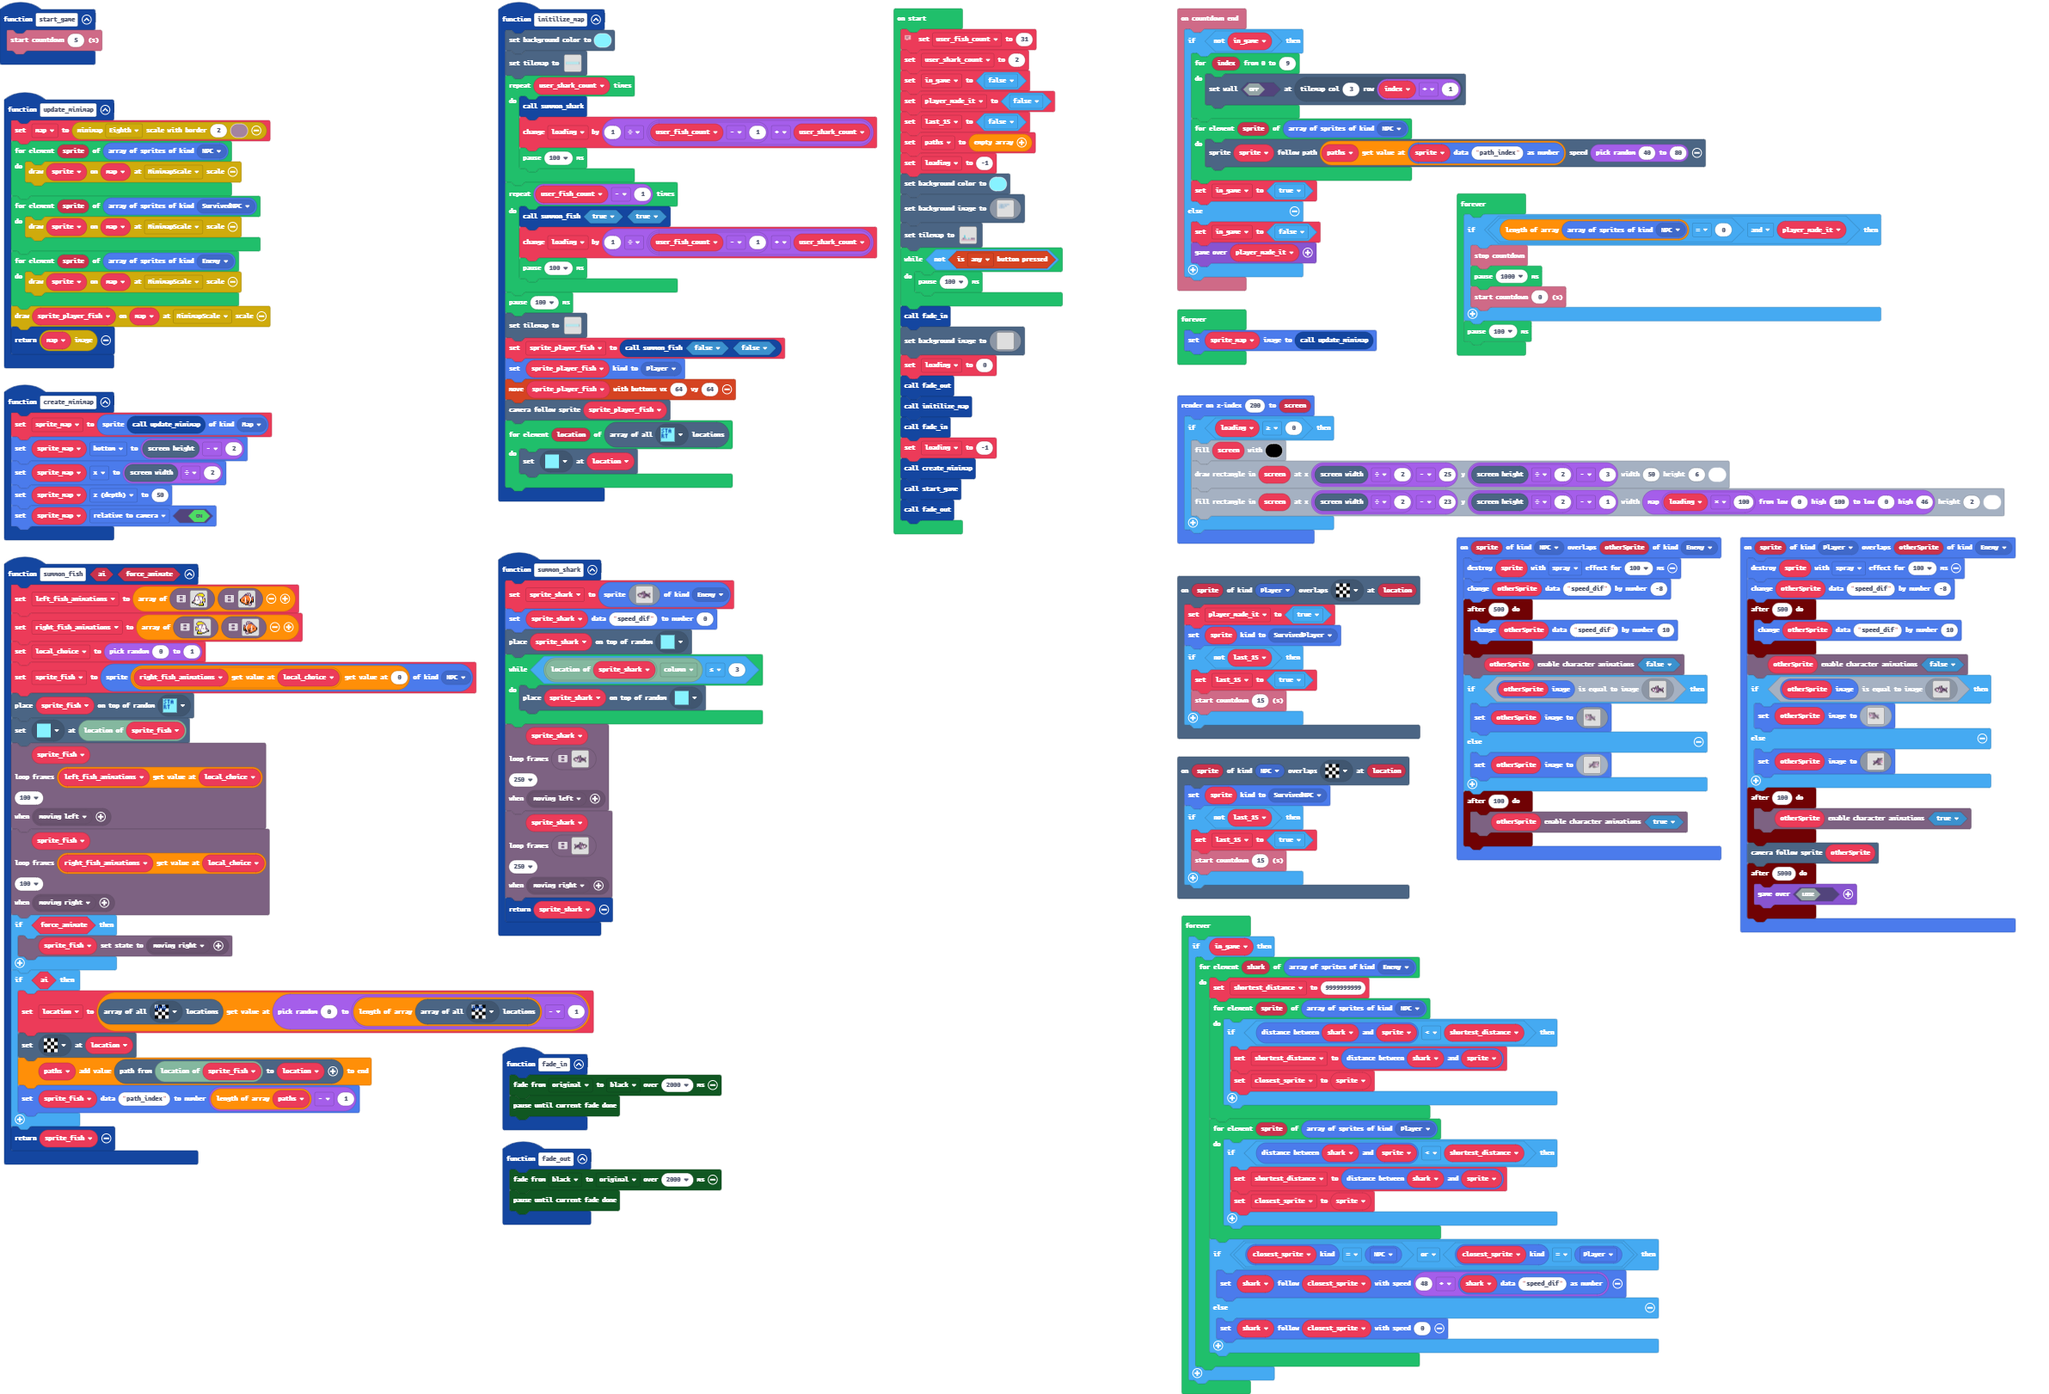
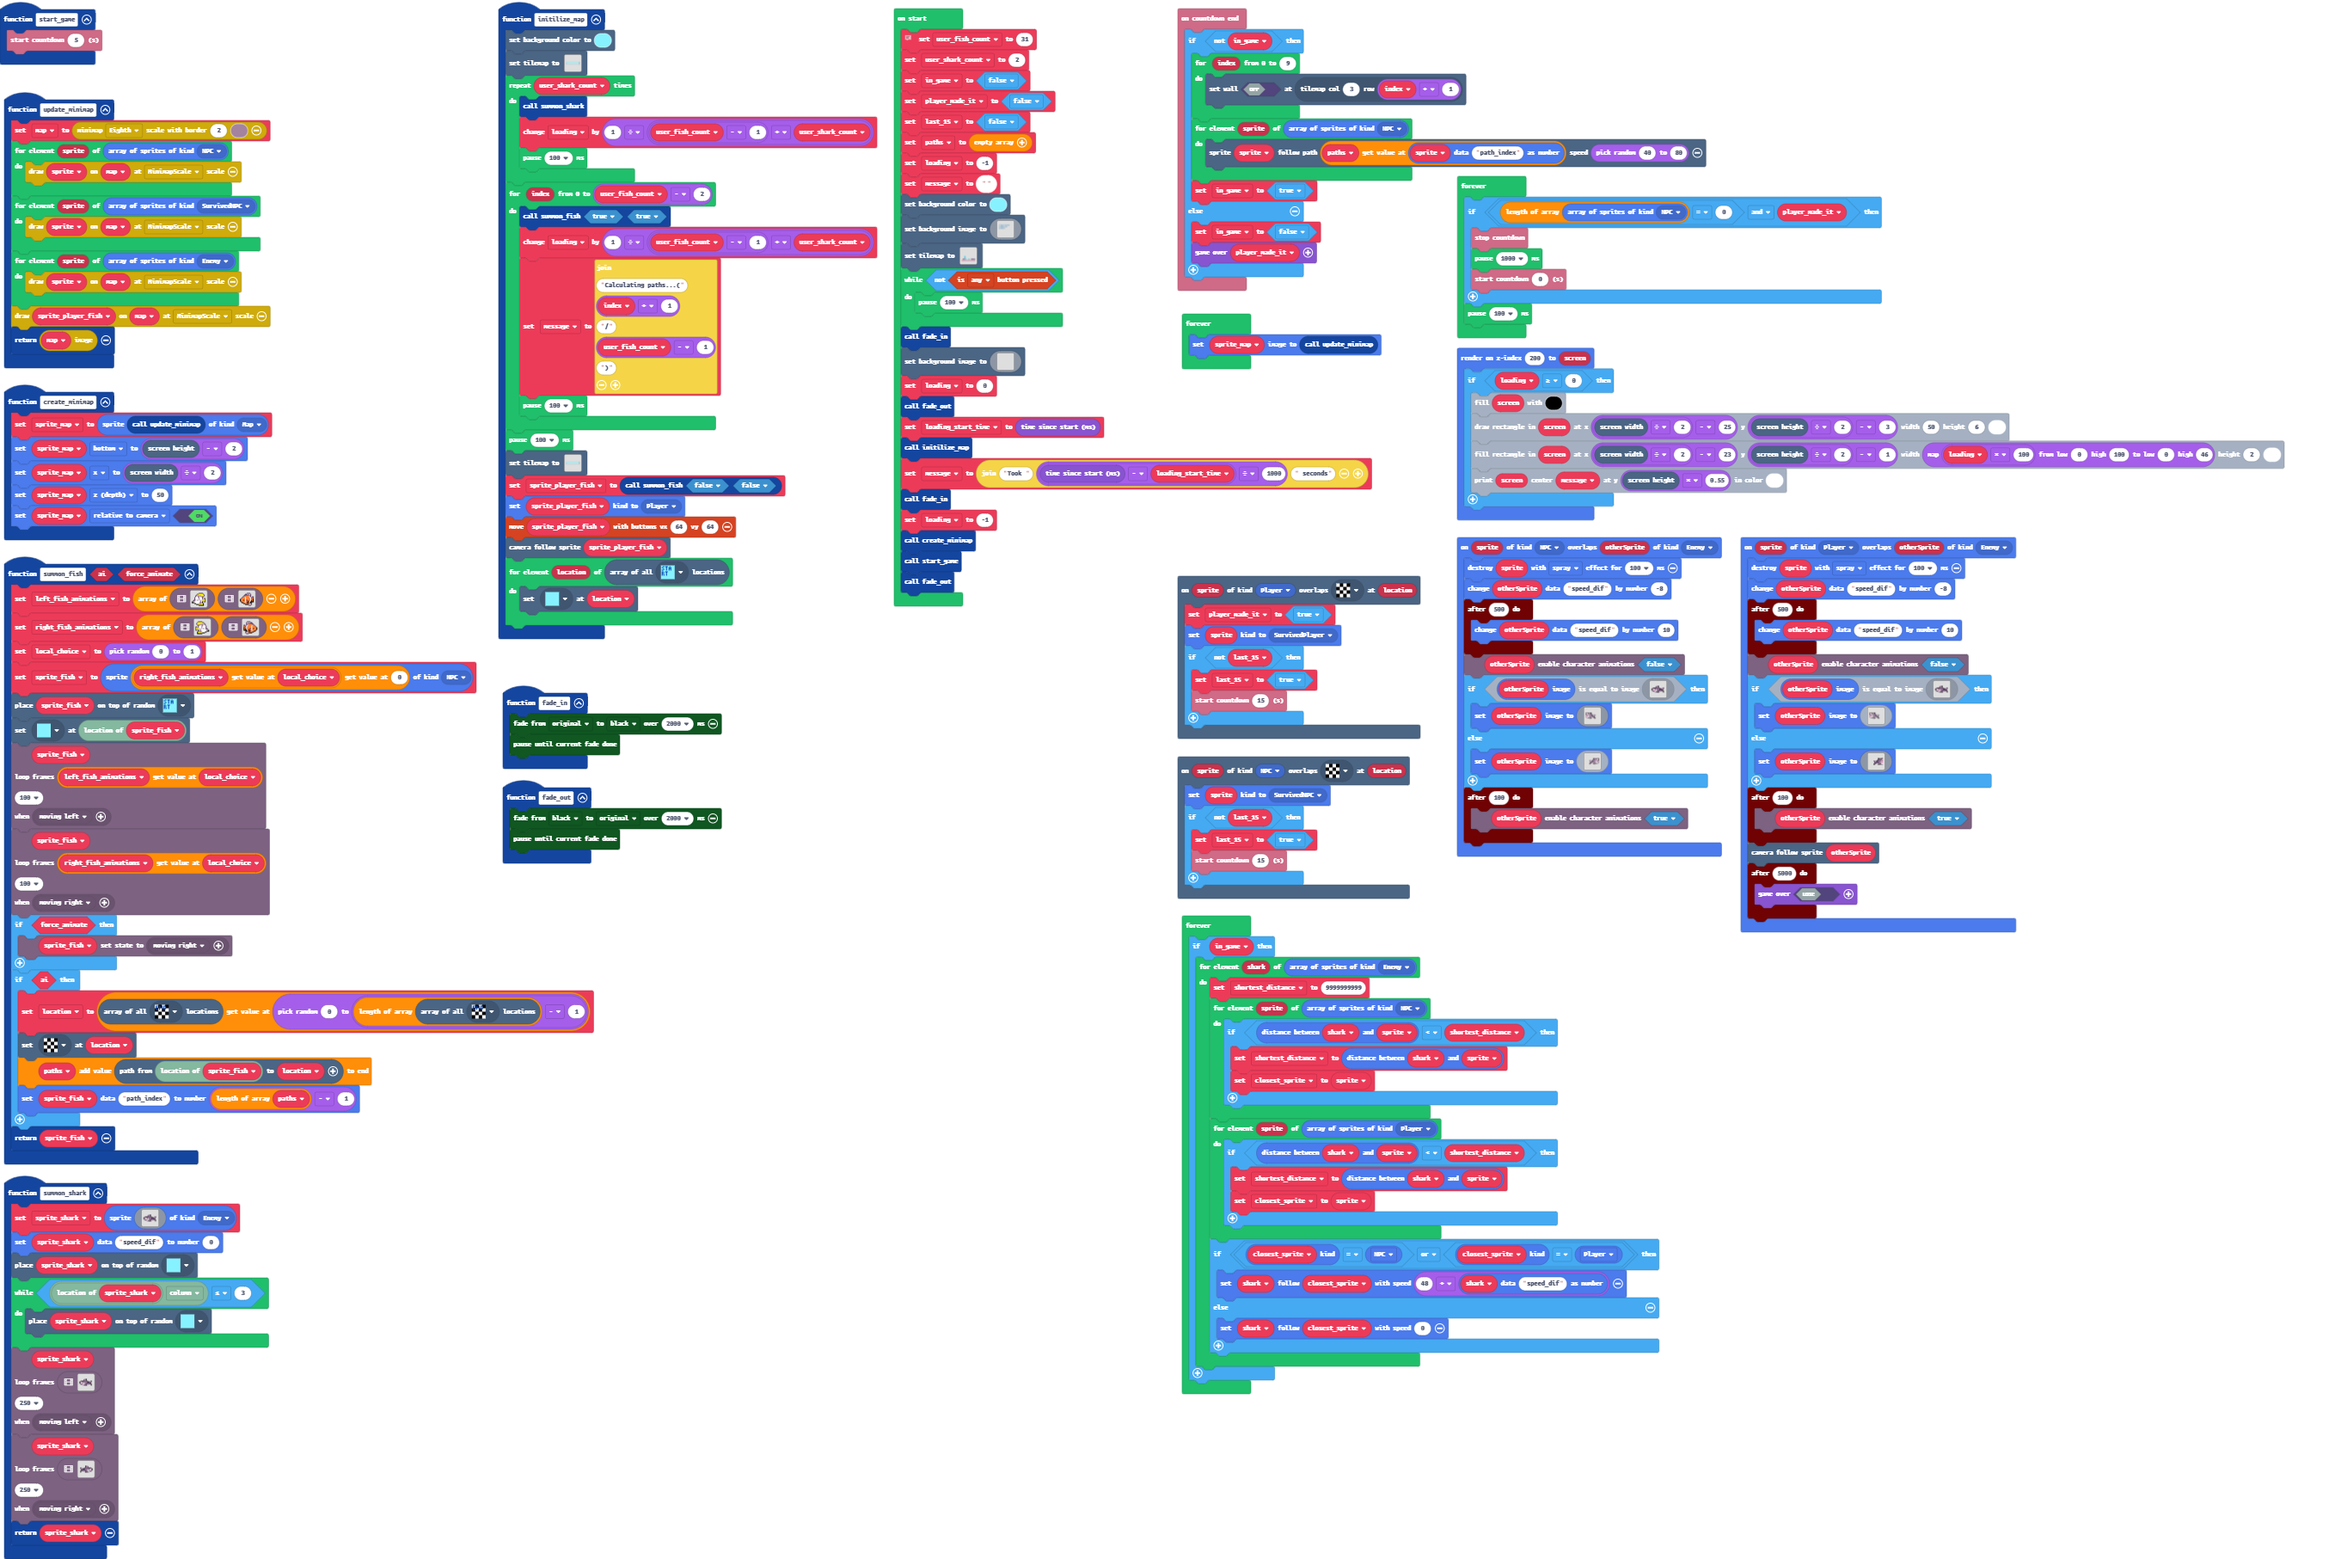
Status text

diff --git a/main.ts b/main.ts
@@ -107,6 +107,7 @@ spriteutils.createRenderable(200, function (screen2) {
         screen2.fill(15)
         screen2.drawRect(scene.screenWidth() / 2 - 25, scene.screenHeight() / 2 - 3, 50, 6, 1)
         screen2.fillRect(scene.screenWidth() / 2 - 23, scene.screenHeight() / 2 - 1, Math.map(loading * 100, 0, 100, 0, 46), 2, 1)
+        images.printCenter(screen2, message, scene.screenHeight() * 0.55, 1)
     }
 })
 scene.onOverlapTile(SpriteKind.NPC, myTiles.tile12, function (sprite, location) {
@@ -237,9 +238,10 @@ function initilize_map () {
         loading += 1 / (user_fish_count - 1 + user_shark_count)
         pause(100)
     }
-    for (let index = 0; index < user_fish_count - 1; index++) {
+    for (let index = 0; index <= user_fish_count - 2; index++) {
         summon_fish(true, true)
         loading += 1 / (user_fish_count - 1 + user_shark_count)
+        message = "Calculating paths...(" + (index + 1) + "/" + (user_fish_count - 1) + ")"
         pause(100)
     }
     pause(100)
@@ -440,6 +442,7 @@ let sprite_fish: Sprite = null
 let local_choice = 0
 let right_fish_animations: Image[][] = []
 let left_fish_animations: Image[][] = []
+let message = ""
 let loading = 0
 let paths: tiles.Location[][] = []
 let last_15 = false
@@ -455,6 +458,7 @@ player_made_it = false
 last_15 = false
 paths = []
 loading = -1
+message = ""
 scene.setBackgroundColor(9)
 scene.setBackgroundImage(img`
     ................................................................................................................................................................
@@ -716,7 +720,9 @@ scene.setBackgroundImage(img`
     `)
 loading = 0
 fade_out()
+let loading_start_time = game.runtime()
 initilize_map()
+message = "Took " + (game.runtime() - loading_start_time) / 1000 + " seconds"
 fade_in()
 loading = -1
 create_minimap()
